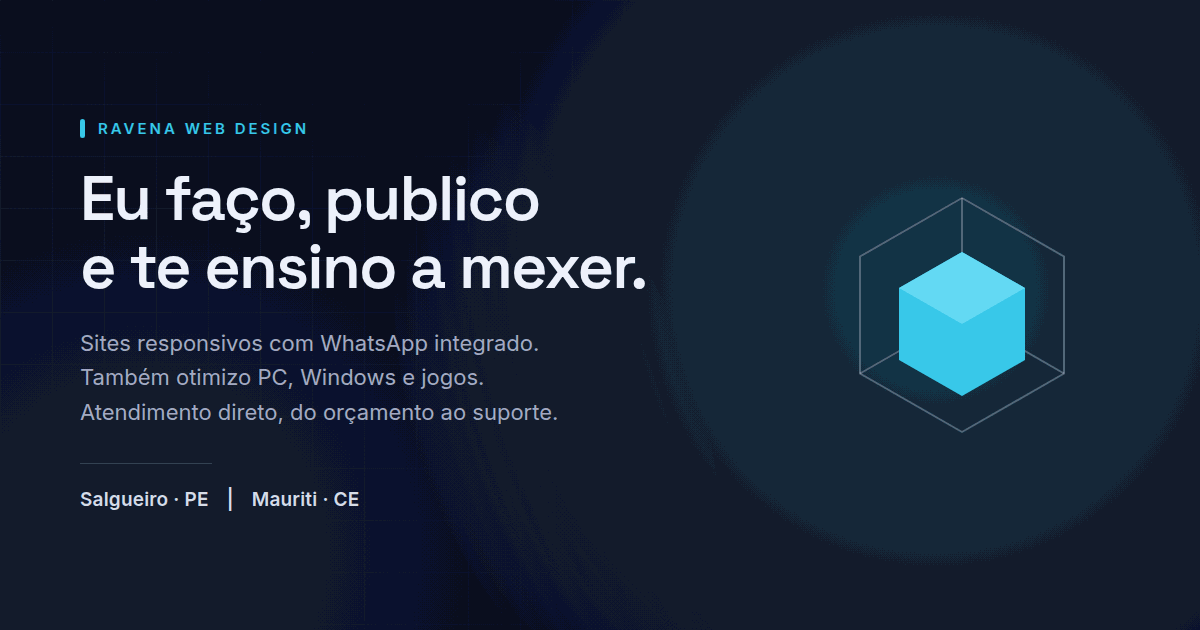
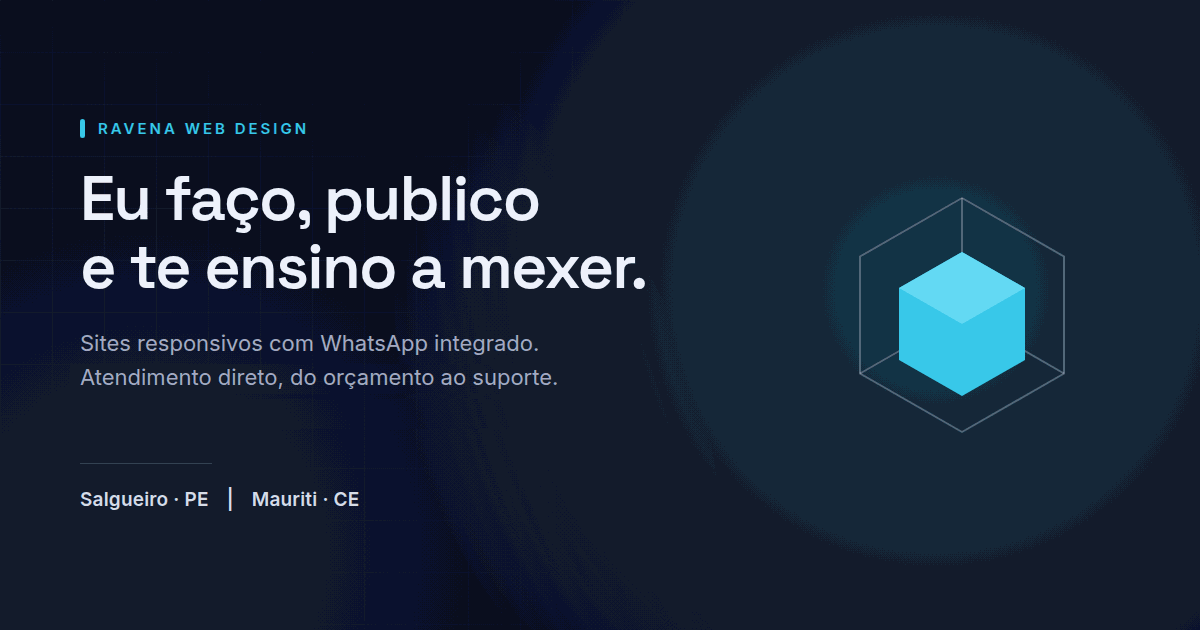
Tira do site o servico de otimizacao de PC e jogos

Changed region(s): [[0.0617, 0.573, 0.4625, 0.6635]]

diff --git a/index.html b/index.html
@@ -5,7 +5,7 @@
     <meta name="viewport" content="width=device-width, initial-scale=1.0, viewport-fit=cover">
 
     <title>Ravena Web Design | Criação de Sites em Salgueiro-PE e Mauriti-CE</title>
-    <meta name="description" content="Criação de sites e landing pages profissionais com design responsivo e integração com WhatsApp. Também faço otimização de PC, Windows e jogos. Atendimento em Salgueiro-PE, Mauriti-CE e todo o Brasil.">
+    <meta name="description" content="Criação de sites e landing pages profissionais com design responsivo e integração com WhatsApp. Atendimento em Salgueiro-PE, Mauriti-CE e todo o Brasil.">
     <meta name="author" content="Ravena Leite">
 
     <link rel="canonical" href="https://ravena-web-design-oficial.netlify.app/">
@@ -167,7 +167,6 @@
         <a href="#servicos">Serviços</a>
         <a href="#precos">Preços</a>
         <a href="#sobre">Sobre</a>
-        <a href="#pc">PC</a>
         <a class="nav-cta" href="#contato">Falar comigo</a>
     </nav>
 </header>
@@ -346,10 +345,8 @@
 
                 <p>
                     Amo tecnologia desde pequena. Hoje estudo Análise e
-                    Desenvolvimento de Sistemas. Os três sites aí de cima eu fiz do
-                    zero — layout, código e o botão de WhatsApp funcionando. Cada um
-                    num estilo diferente de propósito: o que serve pra barbearia não
-                    serve pra clínica.
+                    Desenvolvimento de Sistemas. Os projetos aí de cima eu fiz do
+                    zero, do layout ao código, e coloquei no ar.
                 </p>
 
                 <p class="sobre-destaque">
@@ -359,11 +356,6 @@
                 <p>
                     Não é frase bonita. Aqui tem muito negócio bom que só não
                     aparece na internet, e é isso que eu resolvo.
-                </p>
-
-                <p>
-                    Também mexo com PC gamer — e jogo. É por isso que eu sei onde
-                    procurar quando a máquina trava.
                 </p>
             </div>
         </div>
@@ -461,46 +453,6 @@
             domínio, hospedagem, conteúdo e serviços extras são combinados
             previamente conforme a necessidade do projeto.
         </div>
-    </section>
-
-    <!-- OTIMIZAÇÃO DE PC -->
-    <section class="section section--pc" id="pc" aria-labelledby="tit-pc">
-        <p class="eyebrow">Tecnologia</p>
-        <h3 id="tit-pc">Também trabalho com tecnologia</h3>
-        <p>
-            Antes de gastar com peça nova, vale descobrir se o problema é a peça.
-            Na maioria das máquinas que abro, o gargalo é configuração — e isso
-            eu resolvo.
-        </p>
-
-        <div class="services">
-            <article class="service-card">
-                <h4>Windows afinado</h4>
-                <p>Corto o que sobe sozinho no boot, ajusto serviços e plano de energia. O computador liga e responde na hora.</p>
-            </article>
-
-            <article class="service-card">
-                <h4>Mais FPS nos jogos</h4>
-                <p>Painel da NVIDIA ou AMD configurado de verdade, drivers em dia e ajuste jogo a jogo — não um preset genérico.</p>
-            </article>
-
-            <article class="service-card">
-                <h4>Steam afinado</h4>
-                <p>Cache de shader, pasta de downloads, overlay e espaço em disco. Menos travada no meio da partida.</p>
-            </article>
-
-            <article class="service-card">
-                <h4>Limpeza e segurança</h4>
-                <p>Bloatware, vírus e arquivos temporários fora. Backup do que importa antes de qualquer mudança.</p>
-            </article>
-        </div>
-
-        <p class="pc-nota">
-            Atendo presencialmente em Salgueiro e Mauriti, ou remotamente. Você
-            acompanha tudo e recebe o antes e o depois.
-        </p>
-
-        <a href="https://wa.me/5587991614428" class="button">Falar sobre meu PC</a>
     </section>
 
     <!-- CONTATO -->

diff --git a/styles.css b/styles.css
@@ -174,7 +174,6 @@ body::after {
 #servicos,
 #precos,
 #sobre,
-#pc,
 #contato {
     scroll-margin-top: 16px;
     scroll-margin-top: calc(env(safe-area-inset-top, 0px) + 16px);
@@ -1240,7 +1239,7 @@ footer a:hover {
 
 /* =============================================================================
    COMPLEMENTOS — seções que o index.html usa e este tema ainda não cobria
-   (contato, mapa, seção de PC, selo de plano, crédito do rodapé), no mesmo
+   (contato, mapa, selo de plano, crédito do rodapé), no mesmo
    estilo neon/gradiente do restante do arquivo.
    ========================================================================== */
 
@@ -1264,32 +1263,16 @@ footer a:hover {
     letter-spacing: 0.08em;
 }
 
-/* "Sobre" e "PC" não têm parágrafo de apoio ao lado do título, então usam
+/* "Sobre" não tem parágrafo de apoio ao lado do título, então usa
    etiqueta + título soltos em vez do bloco .section-heading. Estas duas regras
    igualam o espaçamento ao das demais seções, para a fila de títulos manter o
    mesmo ritmo de cima a baixo. */
-.section--sobre > .eyebrow,
-.section--pc > .eyebrow {
+.section--sobre > .eyebrow {
     margin-bottom: 10px;
 }
 
-.section--sobre > h3,
-.section--pc > h3 {
+.section--sobre > h3 {
     margin-bottom: 10px;
-}
-
-.section--pc {
-    text-align: center;
-}
-
-.section--pc .services {
-    text-align: center;
-}
-
-.pc-nota {
-    color: var(--color-text-muted);
-    max-width: 60ch;
-    margin: 6px auto 22px;
 }
 
 .contact {

diff --git a/README.md b/README.md
@@ -1,7 +1,7 @@
 # Ravena Web Design — site institucional
 
-Site de uma página para apresentar serviços de criação de sites e otimização de
-PC, com portfólio navegável e cena 3D decorativa carregada sob demanda.
+Site de uma página para apresentar serviços de criação de sites, com portfólio
+navegável e cena 3D decorativa carregada sob demanda.
 
 **No ar:** https://ravena-web-design-oficial.netlify.app/
 
